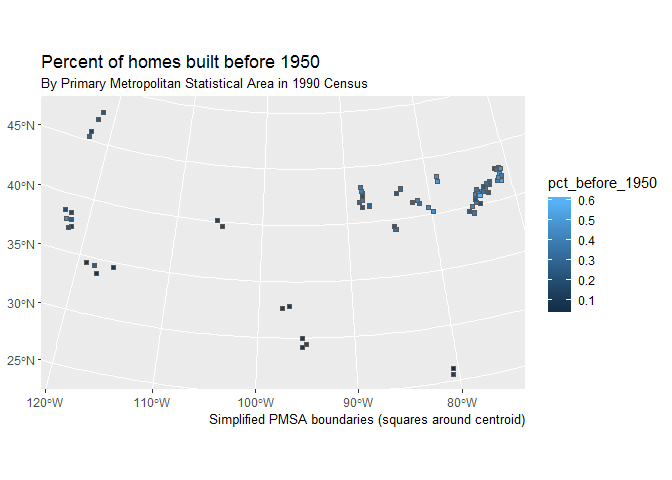
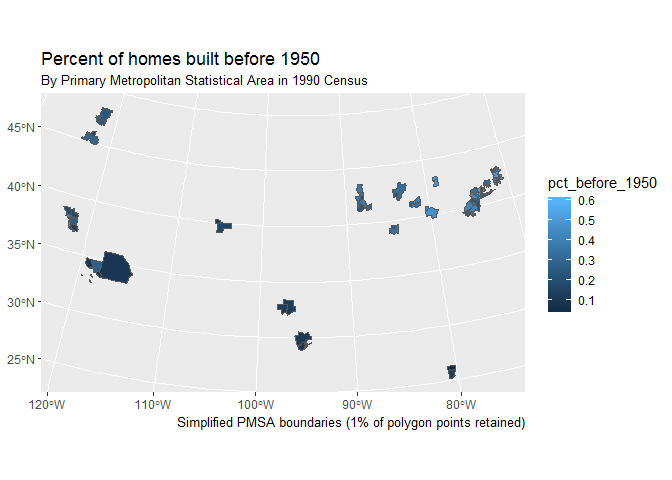
Better method for making the nhgis shape file smaller.

diff --git a/README.md b/README.md
@@ -142,7 +142,7 @@ ipums_view(data)
 
 Relies on user downloading the csv file (with or without header row) and shape files (doesn't need to be unzipped).
 
-Note that to save space when including this data on CRAN, the shape file has been reduced to squares around the centroid of the PMSA. The original shape file can be found in the `ripumsexamples` package.
+Note that to save space when including this data on CRAN, the shape file has been reduced to 1% of the points in the polygon of the PMSA. The original shape file can be found in the `ripumsexamples` package.
 
 ``` r
 data <- read_nhgis_sf(
@@ -175,7 +175,7 @@ ggplot(data = data) +
   labs(
     title = "Percent of homes built before 1950", 
     subtitle = "By Primary Metropolitan Statistical Area in 1990 Census", 
-    caption = "Simplified PMSA boundaries (squares around centroid)"
+    caption = "Simplified PMSA boundaries (1% of polygon points retained)"
   )
 ```
 
